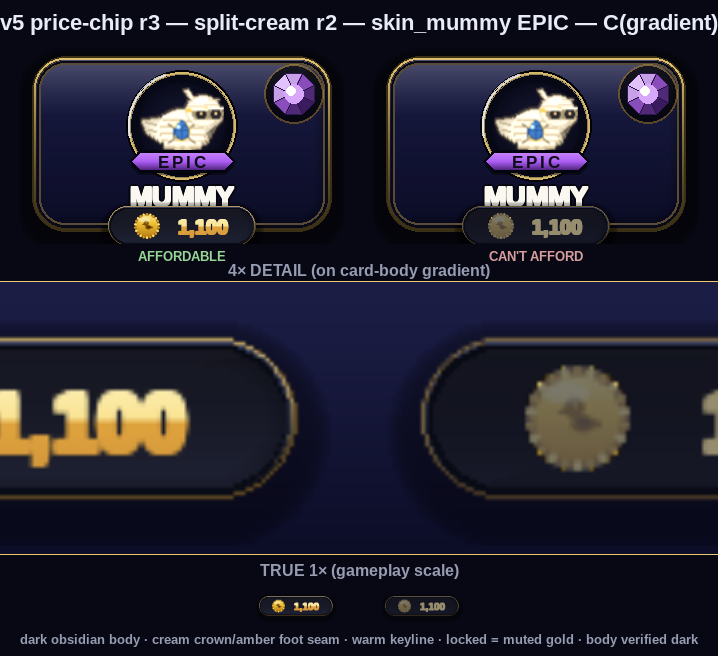
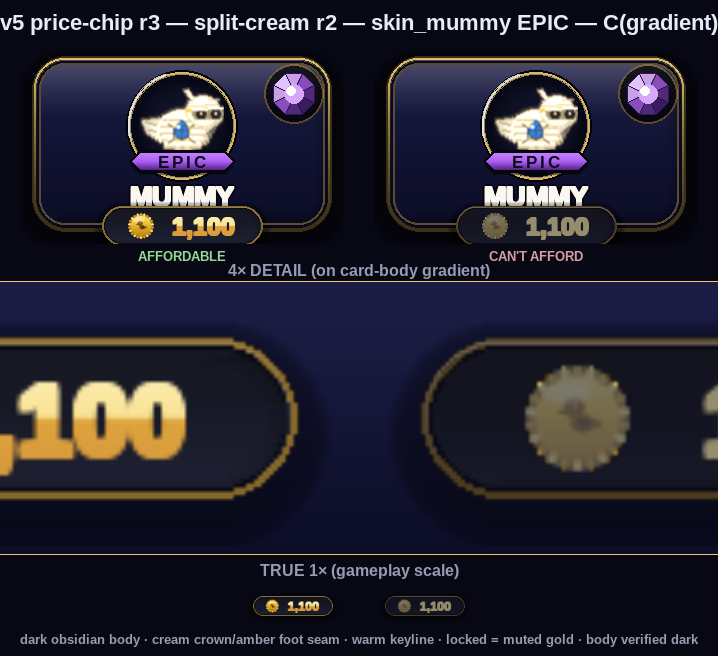
feat: split-cream r3 — larger digits (0.62x) + uniform bottom rim

diff --git a/tools/_store_card_v5_price_chip_r3_split_cream_r2.py b/tools/_store_card_v5_price_chip_r3_split_cream_r2.py
@@ -60,7 +60,7 @@ def price_chip_split_cream(surf, cx, cy, text, h, affordable=True):
     coin_d = int(h * 0.66)
     pad = sc.m(13)
     gapc = sc.m(8)                                   # clear gap: coin cell -> digits
-    f = sc.font(h * 0.50 / sc.SS)                     # DEFAULT size — the seam works
+    f = sc.font(h * 0.62 / sc.SS)                       # slightly larger — more presence
     nw = sc._glyph_base(text, f, 0).get_width() + sc.m(2)
     w = pad + coin_d + gapc + nw + pad
     rad = h // 2                                     # full pill silhouette
@@ -70,16 +70,21 @@ def price_chip_split_cream(surf, cx, cy, text, h, affordable=True):
         # near the pill can read as glow — the light lives ONLY in the digits
         dark_chip_body(surf, r, rad, [(0.0, (12, 13, 22)), (1.0, (34, 37, 56))],
                        (8, 10, 20), (60, 65, 100), gloss=12, gamma=1.04)
-        # warm keyline: a thin struck edge, defined by alpha not additive light
-        sc.bevel_rim(surf, r, rad, (120, 90, 30, 180), (255, 230, 150, 150), w=1)
         coin_rim = (180, 150, 60)
         cool_coin = None
+        rim_a = 150
     else:
         dark_chip_body(surf, r, rad, [(0.0, (10, 11, 20)), (1.0, (26, 28, 44))],
                        (8, 10, 20), (60, 65, 100), gloss=12, gamma=1.04)
-        sc.bevel_rim(surf, r, rad, (120, 90, 30, 120), (255, 230, 150, 80), w=1)
         coin_rim = (120, 110, 80)
         cool_coin = (70, 74, 84, 180)                # neutral slate over the coin
+        rim_a = 80
+    # Uniform warm gold ring via SRCALPHA — sc.bevel_rim fades to alpha=0 at the
+    # bottom arc, leaving it invisible; this stroke is equal all the way around.
+    rim_surf = pygame.Surface((r.w, r.h), pygame.SRCALPHA)
+    pygame.draw.rect(rim_surf, (220, 170, 60, rim_a), rim_surf.get_rect(),
+                     width=max(1, sc.m(1)), border_radius=rad)
+    surf.blit(rim_surf, r.topleft)
     x = r.x + pad
     ccx = x + coin_d // 2
     sc.coin_glyph(surf, ccx, cy, coin_d // 2, rim=coin_rim)
